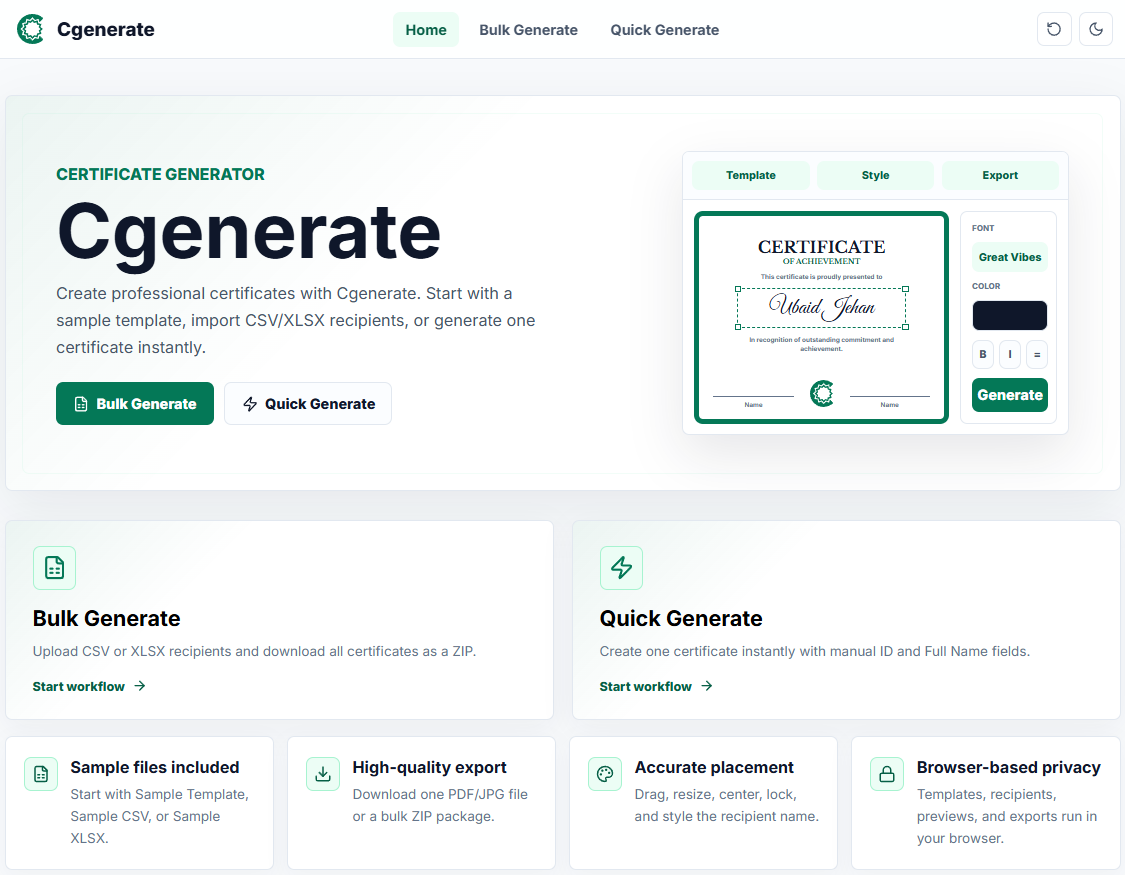
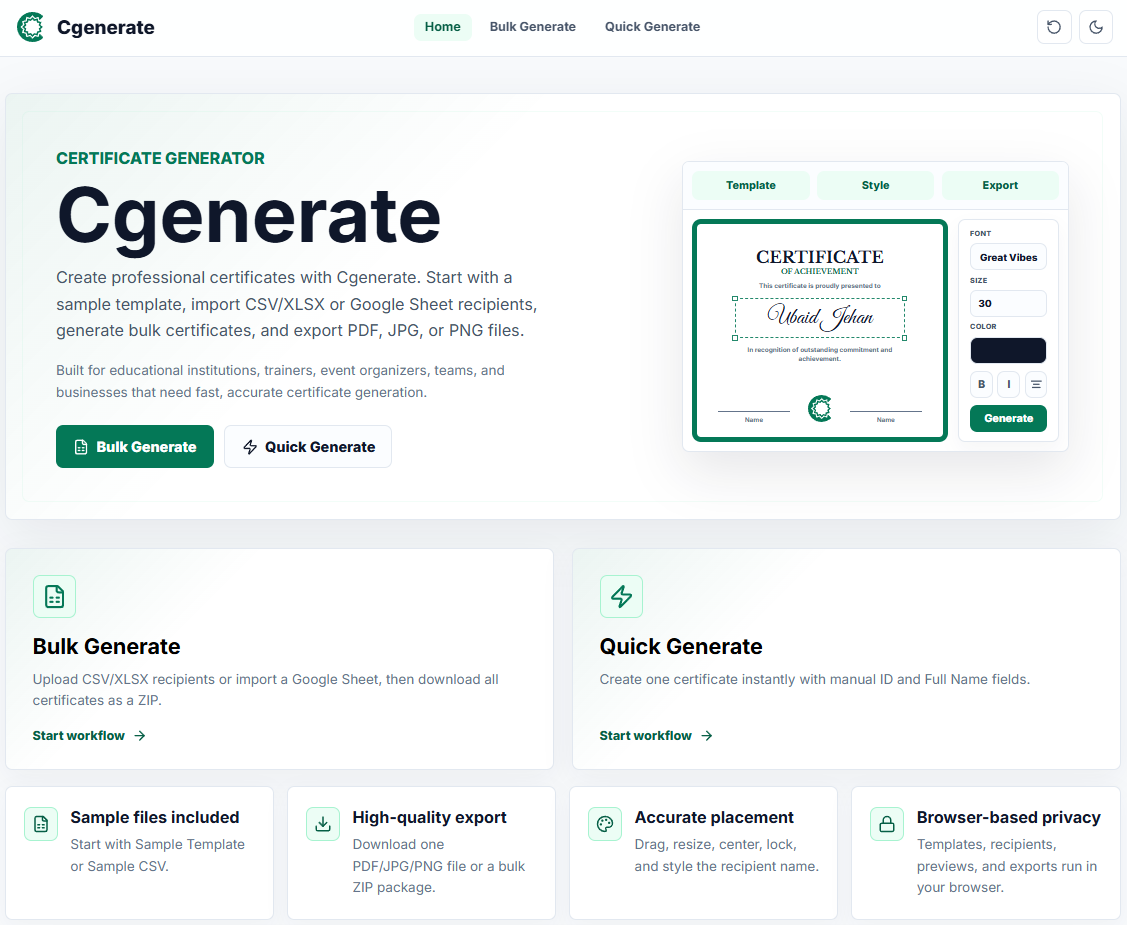
docs: update Cgenerate public product documentation
Update the README and homepage preview, document current product capabilities, and add changelog and security-reporting policies.

diff --git a/README.md b/README.md
@@ -5,43 +5,42 @@
 <h1 align="center">Cgenerate</h1>
 
 <p align="center">
-  Free Online Certificate Generator & Bulk Certificate Creator
+  <strong>Free Online Certificate Generator & Bulk Certificate Creator</strong>
 </p>
 
 <p align="center">
-  Create professional certificates online in seconds from Excel, CSV, PNG, JPG, and PDF templates.
+  Create individual or bulk certificates from CSV, Excel, or Google Sheets using sample or custom PNG, JPG, JPEG, and PDF templates—all directly in your browser.
 </p>
 
 <p align="center">
-  🌐 <a href="https://cgenerate.com">Official Website</a>
+  <a href="https://cgenerate.com">Official Website</a>
+  ·
+  <a href="https://cgenerate.com/quick-certificate-generator/">Quick Generate</a>
+  ·
+  <a href="https://cgenerate.com/bulk-certificate-generator/">Bulk Generate</a>
 </p>
 
 ---
 
 ## Preview
 
-![Cgenerate Homepage](homepage-preview.png)
+![Cgenerate Homepage Preview](homepage-preview.png)
 
 ---
 
 ## About Cgenerate
 
-Cgenerate is a modern online certificate generation platform that helps educational institutions, organizations, businesses, and event managers create professional certificates quickly and efficiently.
+Cgenerate is a free, browser-based certificate-generation platform designed for fast, accurate, and professional certificate creation.
 
-Whether you need a single certificate or thousands of certificates, Cgenerate provides a fast, reliable, and professional solution directly from your browser.
+Create one certificate through Quick Generate or process up to 1,000 recipients through Bulk Generate. No account or software installation is required.
 
-### Ideal For
+### Designed For
 
-- Schools
-- Colleges
-- Universities
-- Training Institutes
-- Workshops
-- Webinars
-- Conferences
-- Organizations
-- Event Managers
-- Businesses
+* Schools, colleges, and universities
+* Training institutes and course providers
+* Workshops, webinars, and conferences
+* Event organizers and professional teams
+* Businesses and other organizations
 
 ---
 
@@ -49,107 +48,124 @@ Whether you need a single certificate or thousands of certificates, Cgenerate pr
 
 ### Quick Certificate Generator
 
-Generate individual certificates with complete control over text placement, styling, and formatting.
+Create one professional certificate through a focused three-step workflow with a continuously visible live preview.
 
 ### Bulk Certificate Generator
 
-Generate hundreds or thousands of certificates using Excel (XLSX) or CSV files.
+Import recipient data from CSV, Excel (`.xlsx`), or Google Sheets and generate certificates for up to 1,000 recipients per file.
 
-### Custom Certificate Templates
+### Recipient Data Validation
 
-Upload and use your own certificate templates while preserving original quality and design.
+Cgenerate checks the required `ID` and `Full Name` columns and identifies missing IDs, empty names, duplicate IDs, long values, and row-limit issues before generation.
 
-### Excel & CSV Import
+### Sample and Custom Templates
 
-Import recipient data directly from spreadsheet files.
+Start with the built-in sample template or upload your own PNG, JPG, JPEG, or first-page PDF certificate design.
+
+Templates can be processed up to 8,000 pixels per side and 16 megapixels.
+
+### Precise Name Placement
+
+Position and style recipient names using controls for font, size, spacing, color, alignment, and placement while viewing the certificate preview.
 
 ### Multiple Export Formats
 
-- PDF Export
-- JPG Export
+Export individual certificates as:
 
-### ZIP Package Download
+* PDF
+* JPG
+* PNG
 
-Download multiple certificates as a single ZIP archive.
+Bulk certificates are created with safe recipient-based filenames and downloaded together in a ZIP package.
 
-### Browser-Based Platform
+### Privacy-First Browser Processing
 
-No installation required. Access Cgenerate from any device and browser.
+Certificate templates, recipient data, previews, and generated files are processed inside the browser session. Uploaded certificate files are not intentionally stored by Cgenerate on a server.
+
+---
+
+## How Cgenerate Works
+
+1. **Choose a template**
+   Use the sample certificate template or upload a PNG, JPG, JPEG, or first-page PDF design.
+
+2. **Place and style the recipient name**
+   Select a font, adjust the size and color, configure spacing and alignment, and position the name using the live preview.
+
+3. **Add recipient information**
+   Enter one recipient manually or import a CSV, Excel, or Google Sheets recipient list containing `ID` and `Full Name` columns.
+
+4. **Preview and export**
+   Review the generated certificate and export it as PDF, JPG, or PNG. Bulk certificates are downloaded in a ZIP package.
 
 ---
 
 ## Available Tools
 
-### Quick Certificate Generator
-
-https://cgenerate.com/quick-certificate-generator/
-
-Create professional certificates instantly by uploading a template and entering recipient details.
-
-### Bulk Certificate Generator
-
-https://cgenerate.com/bulk-certificate-generator/
-
-Generate certificates in bulk using Excel or CSV recipient lists.
+| Tool                                                                              | Purpose                                                                             |
+| --------------------------------------------------------------------------------- | ----------------------------------------------------------------------------------- |
+| [Quick Certificate Generator](https://cgenerate.com/quick-certificate-generator/) | Create and download one professional certificate                                    |
+| [Bulk Certificate Generator](https://cgenerate.com/bulk-certificate-generator/)   | Generate certificates for up to 1,000 recipients using CSV, Excel, or Google Sheets |
 
 ---
 
 ## Popular Use Cases
 
-- Student Certificates
-- Workshop Certificates
-- Webinar Certificates
-- Training Certificates
-- Course Completion Certificates
-- Participation Certificates
-- Appreciation Certificates
-- Achievement Certificates
-- Conference Certificates
-- Corporate Training Certificates
+* Student certificates
+* Training certificates
+* Workshop certificates
+* Webinar and seminar certificates
+* Course-completion certificates
+* Participation certificates
+* Appreciation certificates
+* Achievement certificates
+* Conference certificates
+* Employee awards
+* Corporate training certificates
+* Business recognition certificates
 
 ---
 
-## Why Choose Cgenerate?
+## Documentation and Guides
 
-- Fast certificate generation
-- Professional-quality output
-- User-friendly interface
-- Bulk certificate support
-- Excel & CSV integration
-- Secure cloud-based platform
-- No software installation required
-- Accessible from any device
+| Guide                                                                                         | Description                                                                       |
+| --------------------------------------------------------------------------------------------- | --------------------------------------------------------------------------------- |
+| [How to Create Certificates Online](https://cgenerate.com/how-to-create-certificates/)        | Follow the complete certificate-generation workflow                               |
+| [Bulk Certificate Generation Guide](https://cgenerate.com/bulk-certificate-generation-guide/) | Prepare recipient data, resolve validation issues, and generate bulk certificates |
+| [Certificate Template Preparation Guide](https://cgenerate.com/certificate-template-guide/)   | Prepare reliable PNG, JPG, JPEG, or PDF certificate templates                     |
 
 ---
 
-## Documentation & Guides
+## Privacy and Responsible Use
 
-### Certificate Template Guide
+Cgenerate follows a privacy-first, browser-based workflow. Users remain responsible for reviewing certificate information and generated files before official distribution.
 
-https://cgenerate.com/certificate-template-guide/
+Users must also have permission to use all uploaded templates, logos, signatures, names, IDs, and other certificate content.
 
-### Bulk Certificate Generation Guide
+For complete details, review the:
 
-https://cgenerate.com/bulk-certificate-generation-guide/
-
-### How to Create Certificates Online
-
-https://cgenerate.com/how-to-create-certificates/
+* [Privacy Policy](https://cgenerate.com/privacy/)
+* [Terms of Use](https://cgenerate.com/terms/)
 
 ---
 
-## Mission
+## Repository Scope
 
-Our mission is to simplify certificate creation by providing a fast, reliable, and professional platform for educational institutions, organizations, businesses, and event managers worldwide.
+This repository contains official product information, public documentation, visual assets, and update information for Cgenerate.
+
+The application source code and internal infrastructure are maintained privately. This repository should not be interpreted as an open-source distribution of the Cgenerate application.
 
 ---
 
 ## Connect With Cgenerate
 
-🌐 Website: https://cgenerate.com
-
-🐙 GitHub: https://github.com/cgenerate
+* Website: [cgenerate.com](https://cgenerate.com)
+* GitHub: [github.com/cgenerate](https://github.com/cgenerate)
+* About: [About Cgenerate](https://cgenerate.com/about/)
+* Contact: [Contact Cgenerate](https://cgenerate.com/contact/)
 
 ---
 
-Powered by Cgenerate
+<p align="center">
+  Powered by Cgenerate
+</p>

diff --git a/SECURITY.md b/SECURITY.md
@@ -1,0 +1,41 @@
+# Security Policy
+
+Cgenerate values the responsible disclosure of security and privacy concerns.
+
+## Reporting a Security Issue
+
+Please do not publicly disclose suspected security vulnerabilities through GitHub issues, discussions, or social media.
+
+Report security concerns privately through the official Cgenerate contact page:
+
+https://cgenerate.com/contact/
+
+When submitting a report, please include:
+
+- A clear description of the suspected issue
+- The affected page, tool, or feature
+- Steps required to reproduce the issue
+- Relevant screenshots or supporting details
+- The potential impact, if known
+
+Please do not include passwords, payment information, private certificate files, or unnecessary personal information in your report.
+
+## Responsible Disclosure
+
+Please allow Cgenerate a reasonable opportunity to investigate and address a legitimate security concern before sharing information publicly.
+
+Avoid actions that could:
+
+- Access or modify another user's information
+- Disrupt the availability of the service
+- Damage data, systems, or infrastructure
+- Violate applicable laws or third-party rights
+- Expose sensitive information unnecessarily
+
+## Privacy Note
+
+Cgenerate processes certificate templates, recipient information, previews, and generated certificate files inside the user's browser session.
+
+Uploaded templates and recipient files are not intentionally stored by Cgenerate on a server. Limited interface preferences may be stored locally in the user's browser.
+
+For additional information, review the [Cgenerate Privacy Policy](https://cgenerate.com/privacy/).

diff --git a/CHANGELOG.md b/CHANGELOG.md
@@ -1,0 +1,45 @@
+# Cgenerate Changelog
+
+Notable public product improvements are documented in this file.
+
+## August 2026
+
+### Added
+
+- Google Sheets recipient import
+- PNG certificate export
+- Quick Generate three-step workflow
+- Sample certificate template
+- Sample CSV and Excel (`.xlsx`) recipient files
+- Live certificate preview
+- Recipient-name controls for font, size, spacing, color, alignment, and placement
+- Public About, Contact, Privacy, and Terms pages
+- Certificate creation, bulk generation, and template-preparation guides
+
+### Improved
+
+- Bulk certificate generation for up to 1,000 recipients per file
+- Validation for required columns, missing IDs, empty names, duplicate IDs, long values, and row limits
+- Support for PNG, JPG, JPEG, and first-page PDF certificate templates
+- Template validation for dimensions up to 8,000 pixels per side and 16 megapixels
+- PDF, JPG, and PNG certificate export
+- Safe recipient-based filenames
+- ZIP package downloads for bulk certificates
+- Browser-based certificate processing and privacy information
+
+### Data Import
+
+Bulk Generate supports recipient information from:
+
+- CSV files
+- Excel (`.xlsx`) files
+- Google Sheets
+
+Recipient data must contain the following columns:
+
+- `ID`
+- `Full Name`
+
+### Privacy
+
+Certificate templates, recipient information, previews, and generated files are processed inside the browser session. No account is required to use the certificate generators.
